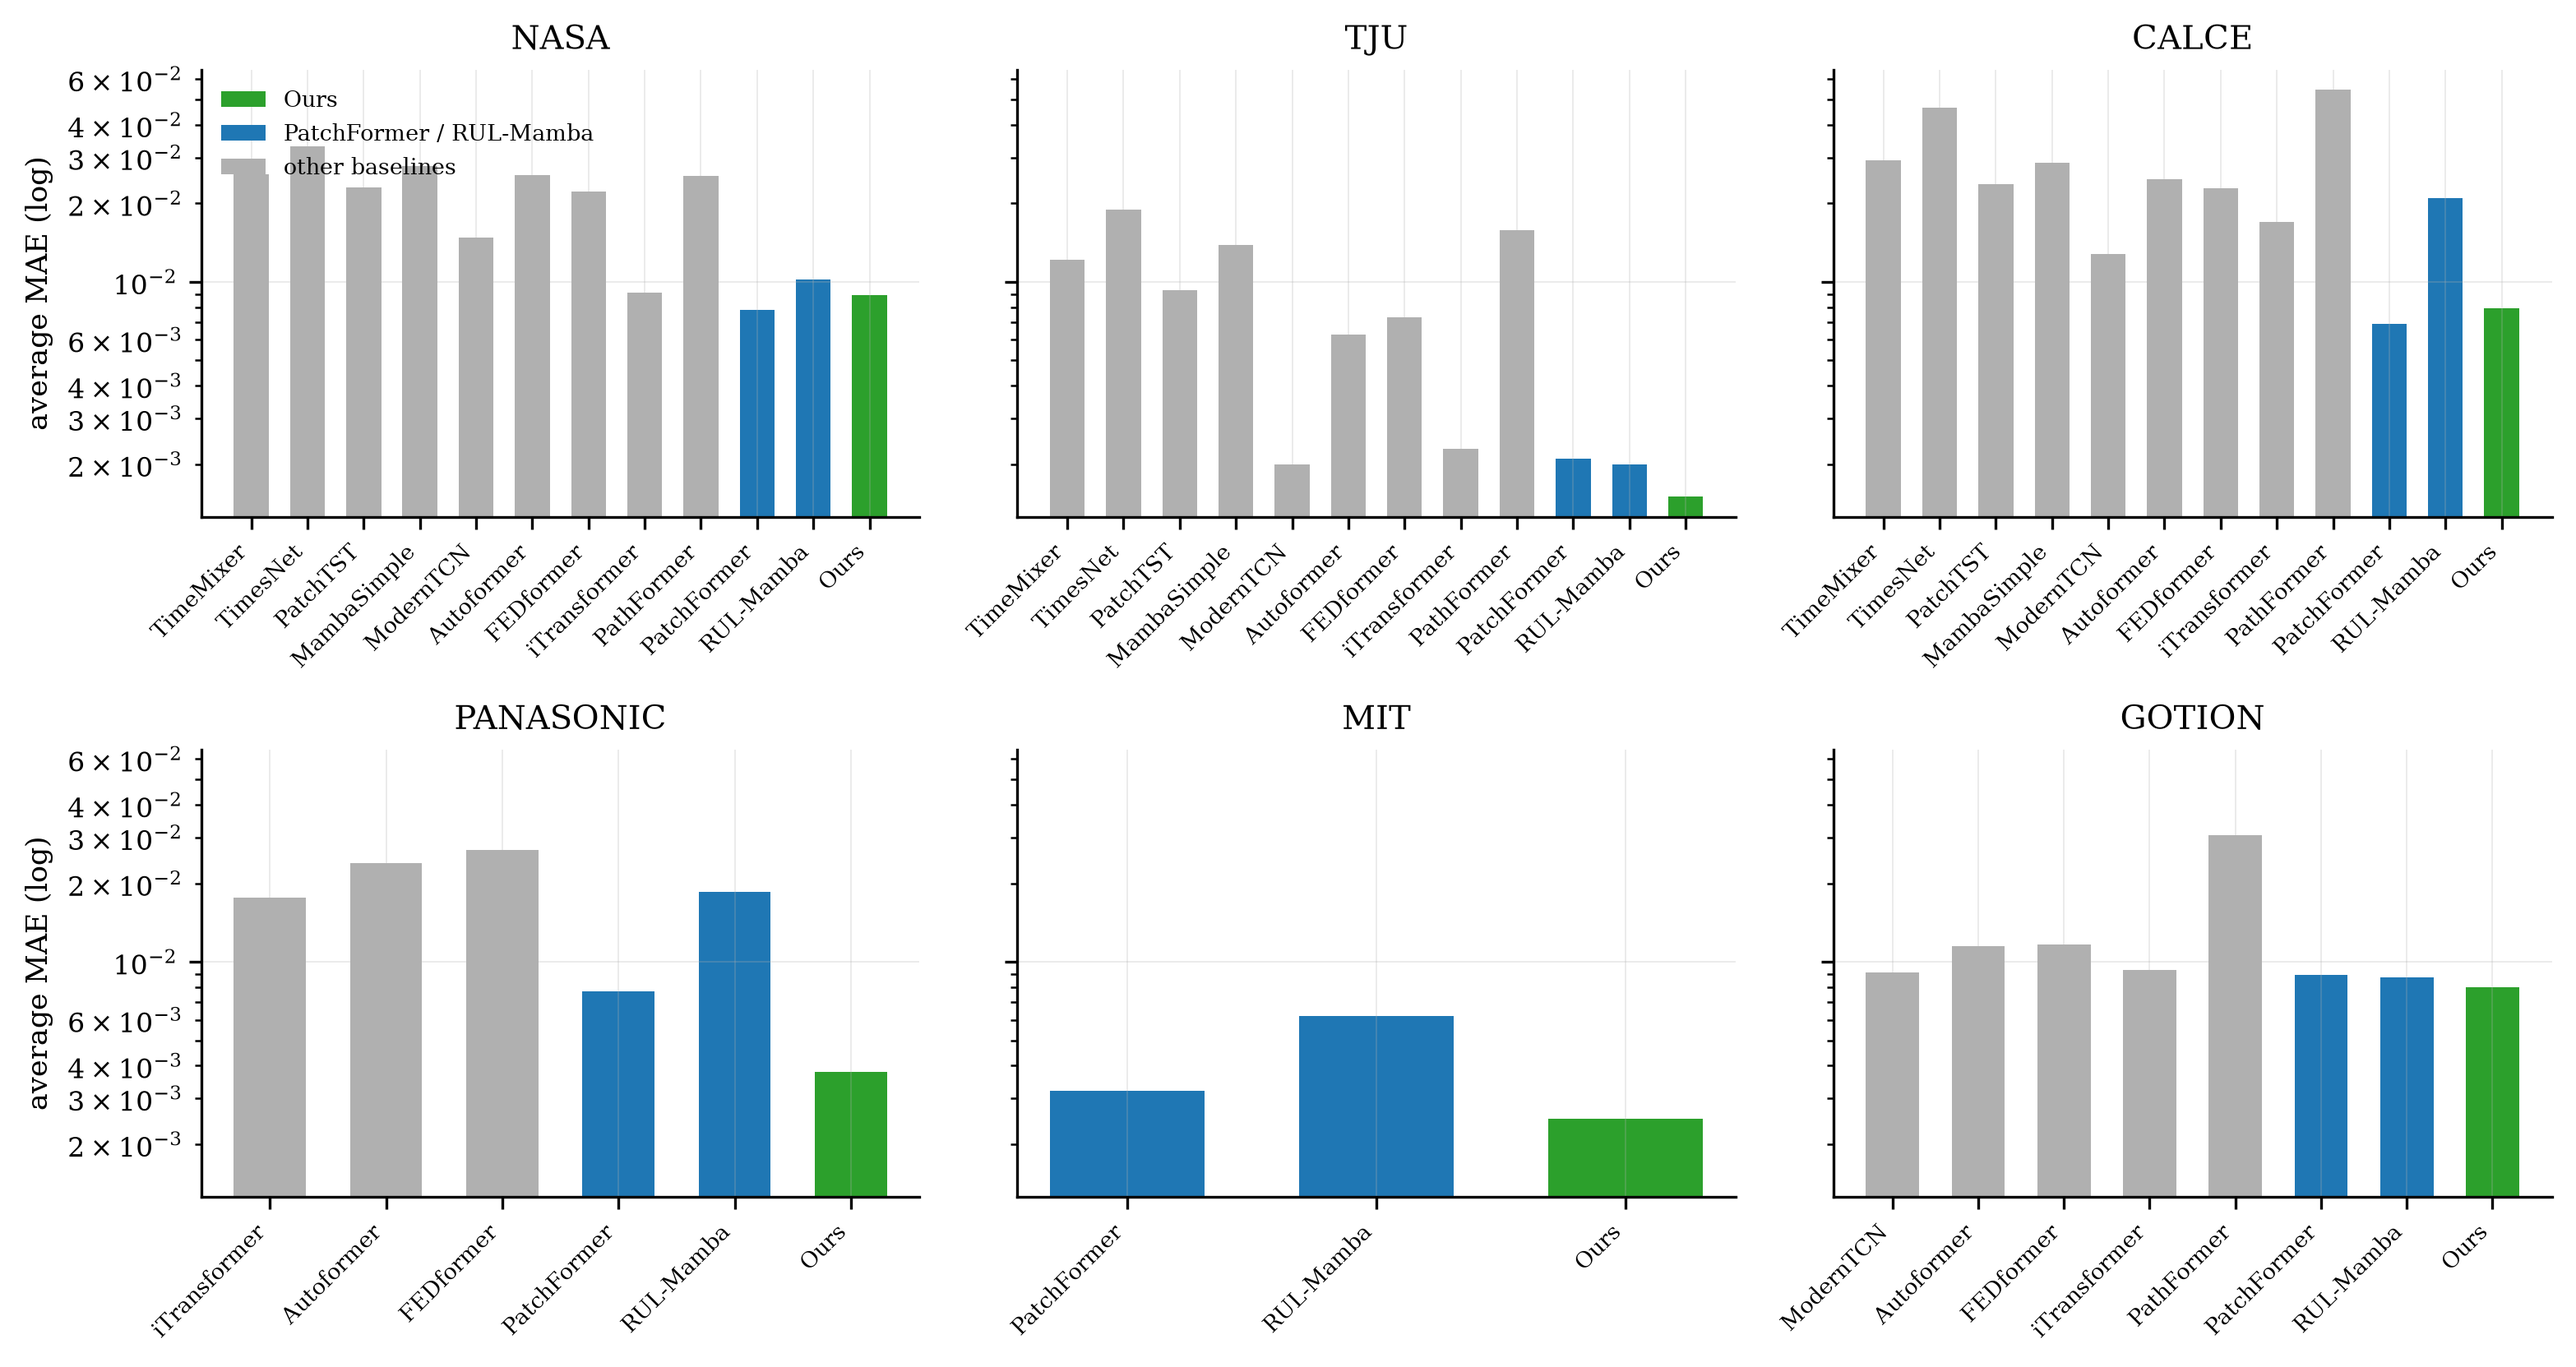
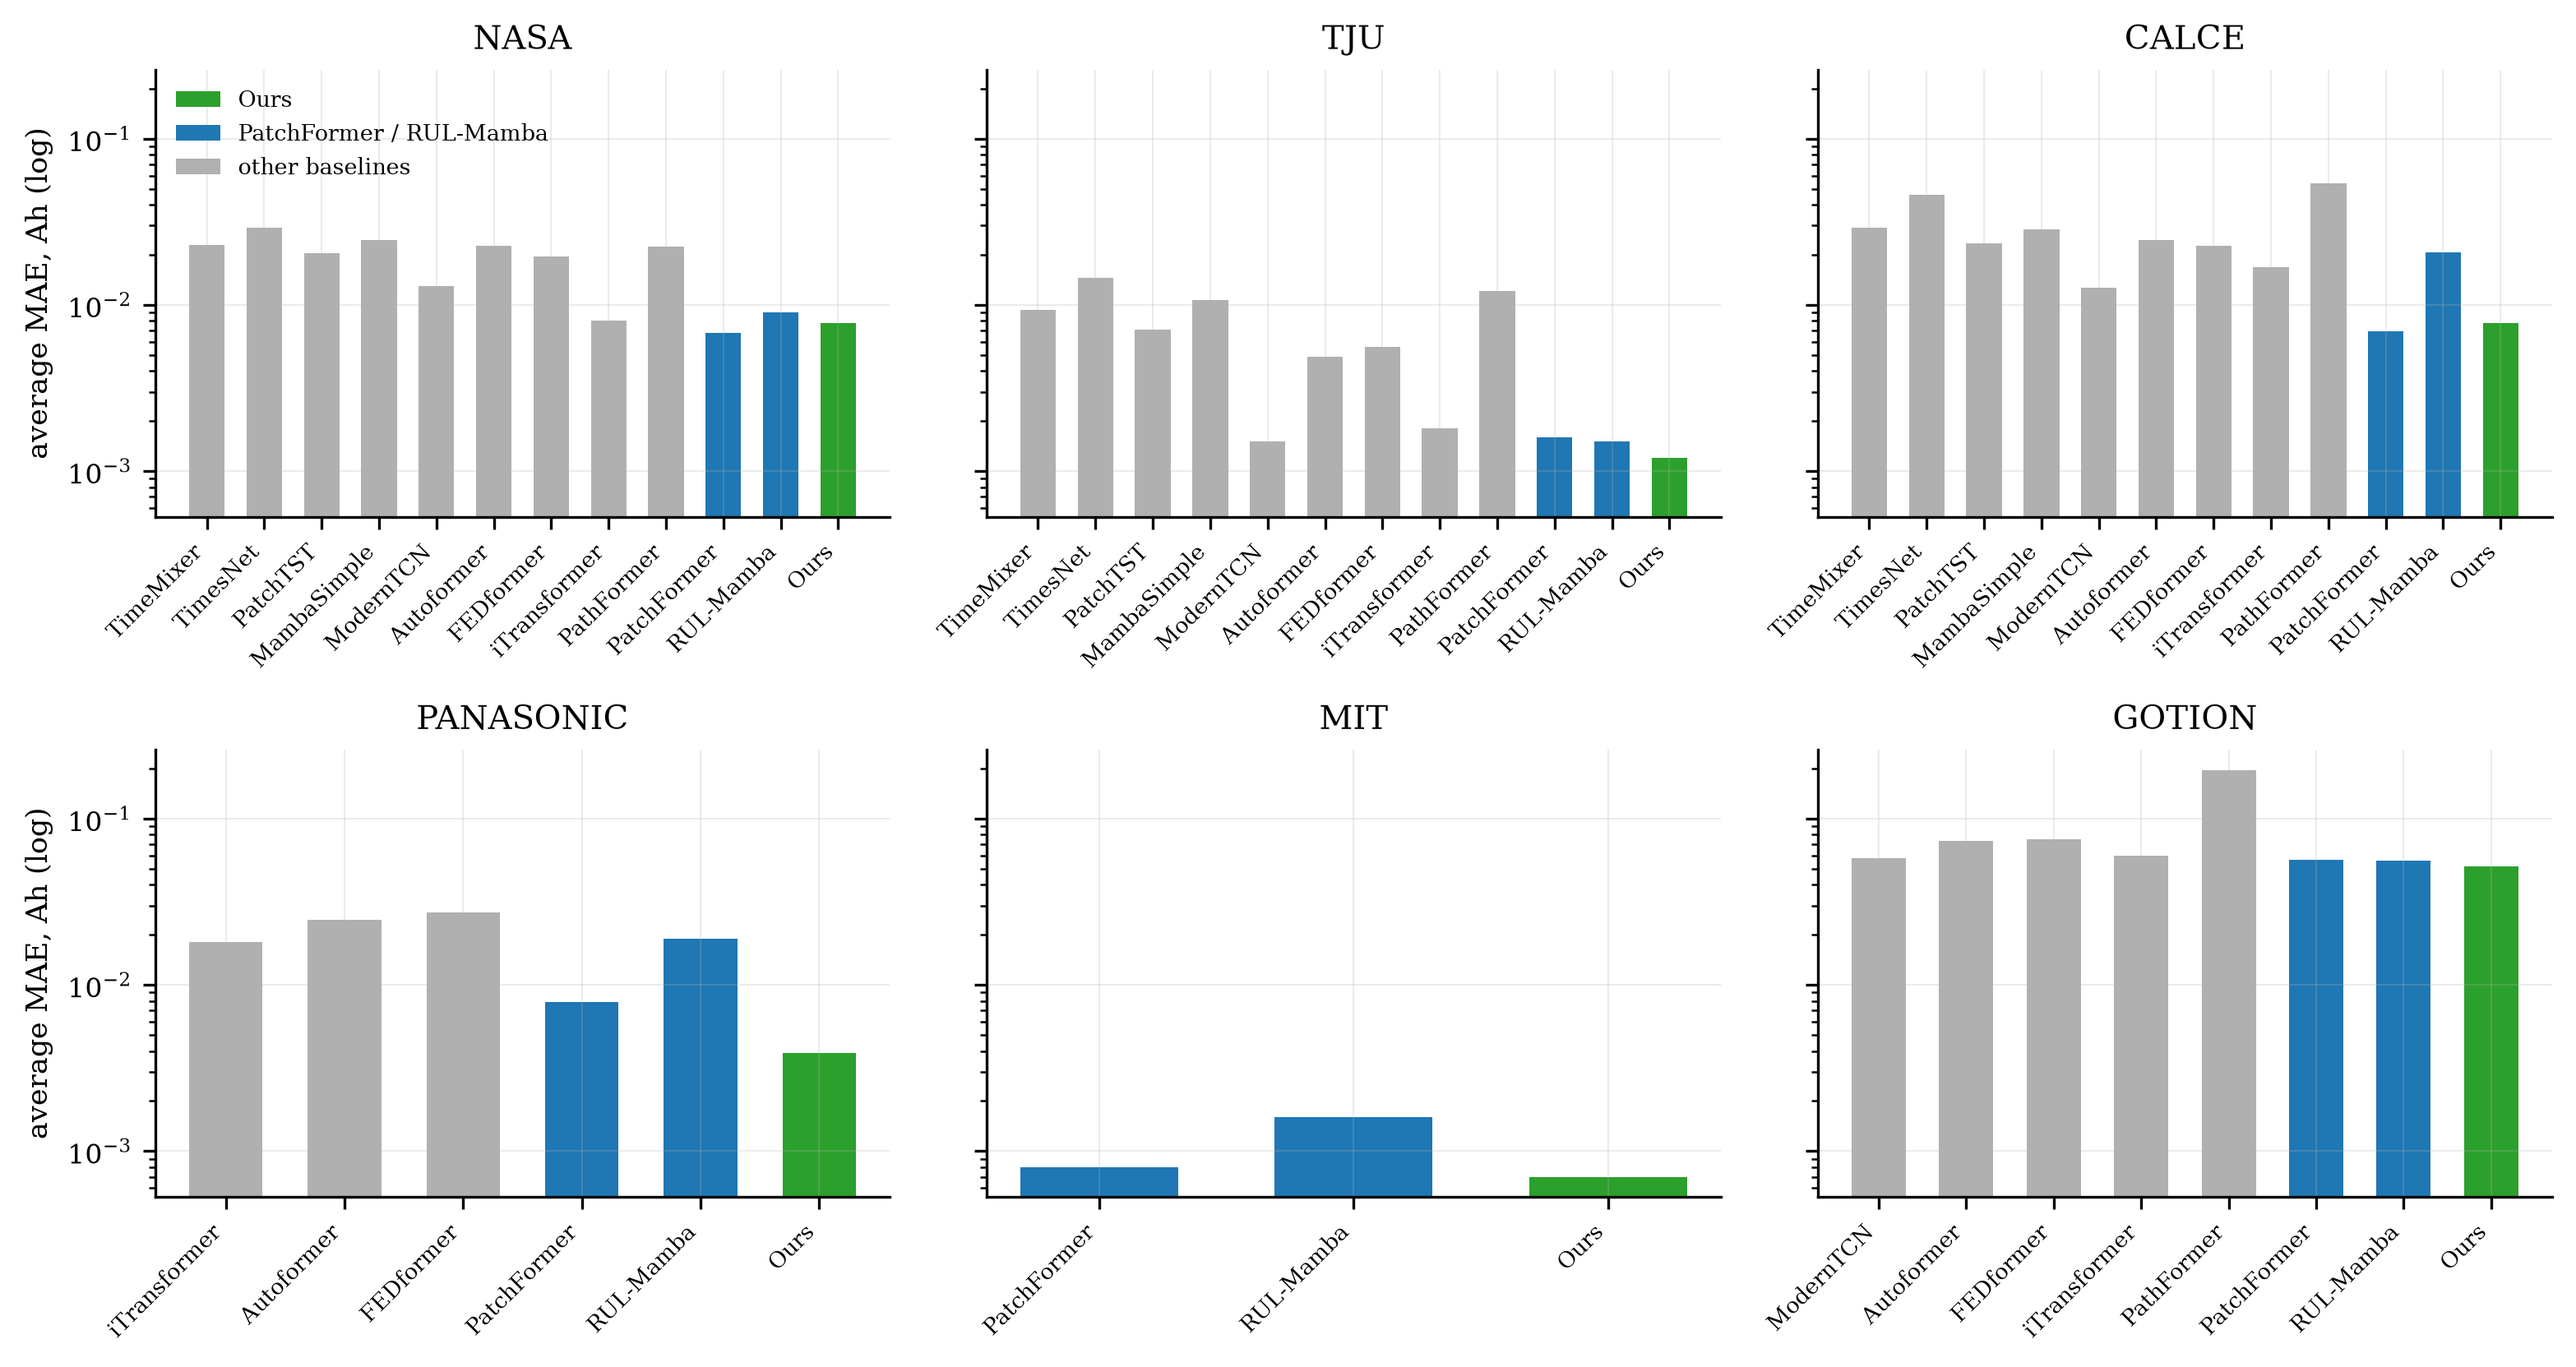
fig: restore Fig 5 to a 2x3 grid, with its data in Ah
make_figures_compare_2x3.py and make_figures_extra.fig_compare() both write
paper/figures/fig_compare.pdf, so whichever runs last wins. Re-running the
latter during the Ah change silently reverted the layout to 3x2.

Worse, the 2x3 script carries its own copy of the data, so it never went
through the conversion either: it was still plotting normalized MAE, which
drew the GOTION bar 6.4x lower than the table says and the MIT bar 3.7x
higher.

Both data dicts now match Table 3 entry for entry -- check_fig_compare_data.py
reports 0 of 53 disagreeing for make_figures_extra, and the 2x3 copy is
identical to it key by key. The figure is back to the 2x3 landscape that
matches Fig. 4, and the y-label names the unit.

diff --git a/src/make_figures_compare_2x3.py b/src/make_figures_compare_2x3.py
@@ -51,38 +51,41 @@ OURS = "#2ca02c"
 SELF_RUN = "#1f77b4"
 OTHER = "#b0b0b0"
 
-# Mean per-SP MAE, read from Table 3 (all series on the same
-# normalized-capacity scale).
+# Mean per-SP MAE in Ah, read from Table 3 -- identical to the data dict in
+# make_figures_extra.fig_compare().  The baselines were always in Ah; the
+# "Ours" entries here used to be normalized, which on a log axis overstated
+# our GOTION margin by 6.4x and understated MIT by 3.7x.  Keep this dict in
+# sync with make_figures_extra.py whenever Table 3 changes.
 DATA = {
     "NASA": {
-        "TimeMixer": 0.0258, "TimesNet": 0.0331, "PatchTST": 0.0231,
-        "MambaSimple": 0.0279, "ModernTCN": 0.0148, "Autoformer": 0.0256,
-        "FEDformer": 0.0222, "iTransformer": 0.0091, "PathFormer": 0.0255,
-        "PatchFormer": 0.0078, "RUL-Mamba": 0.0102, "Ours": 0.0089,
+        "TimeMixer": 0.0228, "TimesNet": 0.0292, "PatchTST": 0.0204,
+        "MambaSimple": 0.0246, "ModernTCN": 0.0130, "Autoformer": 0.0226,
+        "FEDformer": 0.0195, "iTransformer": 0.0080, "PathFormer": 0.0225,
+        "PatchFormer": 0.0068, "RUL-Mamba": 0.0090, "Ours": 0.0078,
     },
     "TJU": {
-        "TimeMixer": 0.0122, "TimesNet": 0.019, "PatchTST": 0.0093,
-        "MambaSimple": 0.0139, "ModernTCN": 0.002, "Autoformer": 0.0063,
-        "FEDformer": 0.0073, "iTransformer": 0.0023, "PathFormer": 0.0158,
-        "PatchFormer": 0.0021, "RUL-Mamba": 0.002, "Ours": 0.0015,
+        "TimeMixer": 0.0093, "TimesNet": 0.0146, "PatchTST": 0.0071,
+        "MambaSimple": 0.0107, "ModernTCN": 0.0015, "Autoformer": 0.0049,
+        "FEDformer": 0.0056, "iTransformer": 0.0018, "PathFormer": 0.0121,
+        "PatchFormer": 0.0016, "RUL-Mamba": 0.0015, "Ours": 0.0012,
     },
     "CALCE": {
-        "TimeMixer": 0.0293, "TimesNet": 0.0465, "PatchTST": 0.0237,
-        "MambaSimple": 0.0287, "ModernTCN": 0.0128, "Autoformer": 0.0248,
-        "FEDformer": 0.0229, "iTransformer": 0.017, "PathFormer": 0.0545,
-        "PatchFormer": 0.0069, "RUL-Mamba": 0.0209, "Ours": 0.0079,
+        "TimeMixer": 0.0291, "TimesNet": 0.0461, "PatchTST": 0.0235,
+        "MambaSimple": 0.0284, "ModernTCN": 0.0127, "Autoformer": 0.0246,
+        "FEDformer": 0.0227, "iTransformer": 0.0168, "PathFormer": 0.0541,
+        "PatchFormer": 0.0069, "RUL-Mamba": 0.0207, "Ours": 0.0078,
     },
     "PANASONIC": {
-        "iTransformer": 0.0177, "Autoformer": 0.024, "FEDformer": 0.0268,
-        "PatchFormer": 0.0077, "RUL-Mamba": 0.0186, "Ours": 0.0038,
+        "iTransformer": 0.0180, "Autoformer": 0.0245, "FEDformer": 0.0274,
+        "PatchFormer": 0.0079, "RUL-Mamba": 0.0189, "Ours": 0.0039,
     },
     "MIT": {
-        "PatchFormer": 0.0032, "RUL-Mamba": 0.0062, "Ours": 0.0025,
+        "PatchFormer": 0.0008, "RUL-Mamba": 0.0016, "Ours": 0.0007,
     },
     "GOTION": {
-        "ModernTCN": 0.0091, "Autoformer": 0.0115, "FEDformer": 0.0117,
-        "iTransformer": 0.0093, "PathFormer": 0.0307, "PatchFormer": 0.0089,
-        "RUL-Mamba": 0.0087, "Ours": 0.008,
+        "ModernTCN": 0.0581, "Autoformer": 0.0731, "FEDformer": 0.0749,
+        "iTransformer": 0.0597, "PathFormer": 0.1965,
+        "PatchFormer": 0.0568, "RUL-Mamba": 0.0558, "Ours": 0.0514,
     },
 }
 
@@ -107,7 +110,7 @@ def main():
     # With sharey the tick labels repeat on every panel; label the left
     # column of each row so the shared axis is named in both rows.
     for ax in (axes[0, 0], axes[1, 0]):
-        ax.set_ylabel("average MAE (log)")
+        ax.set_ylabel("average MAE, Ah (log)")
 
     axes[0, 0].legend(
         handles=[
